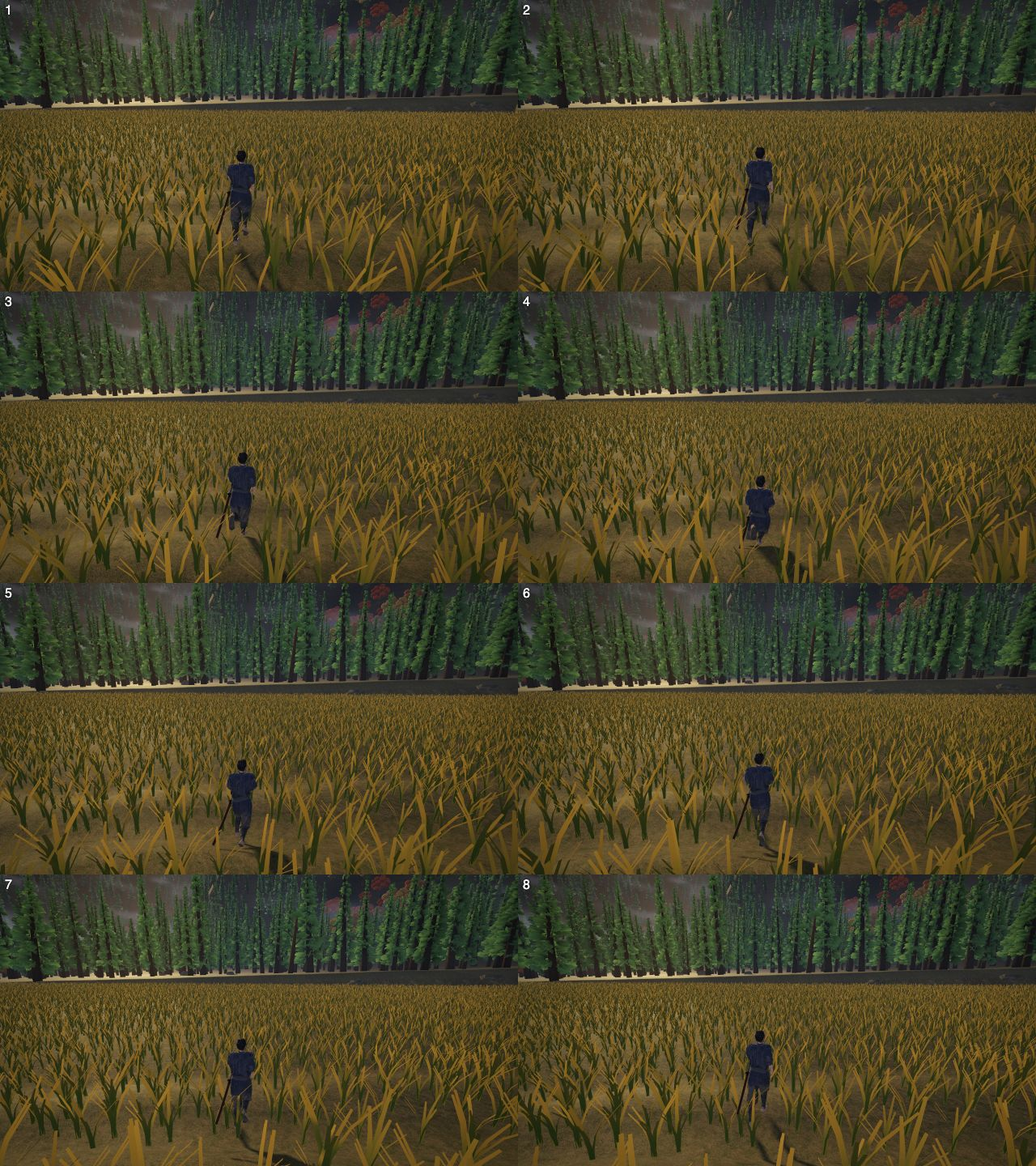
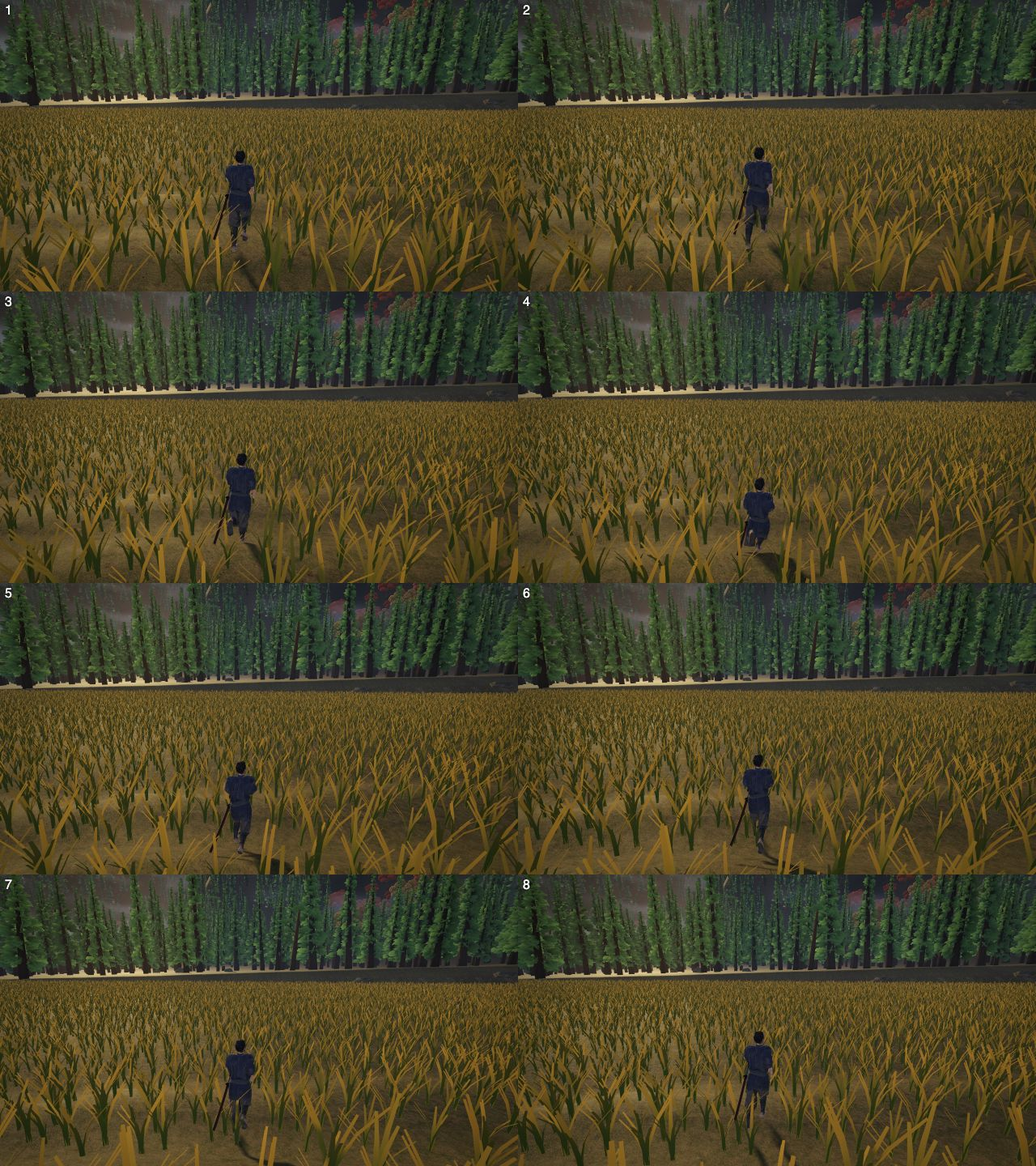
Record the final M4 results: forest check, blind scoring, opt-in FOV
The design doc, the M4 task entry, the polish3 task list and the QA readme now describe what
shipped: the speed-linked FOV is off by default (?fov=on), the pull-in floor is held, and the
camera regression has a forest route. m4.md has the final numbers (journey, routes, 32 forest
runs, lock-on, blind scoring of 27 items, mutation checks, performance with a control run).
The after-* images are re-captured from the default build; after-fov-run_stop.jpg shows ?fov=on.

diff --git a/reports/polish3/locomotion-smooth/m4.md b/reports/polish3/locomotion-smooth/m4.md
@@ -1,46 +1,66 @@
 # 走り・歩きの滑らかさ M4：追従カメラ（2026-11-04）
 
-前＝この枝の `?smooth=camera`（M3 のカメラ。762コマの記録の指紋 07ae29a12b76ffb9 が M3 の main と一致）。後＝この枝の既定（指紋 d286bd4881ba619c）。
+前＝この枝の `?smooth=camera`（M3 のカメラ。762コマの記録の指紋 07ae29a12b76ffb9 が M3 の main と一致）。後＝既定（指紋 313e89c1ce303f11）。
 入れたのは見た目のカメラだけ（`dist/valley/camera-follow.js`・`camera-rig.js` の `updateSmooth`）。設計と捨てた案は `design-locomotion-camera.md`。
 
 ## 結論
-- **一番ぎこちなかった壁際の瞬間の寄せ（1コマで1.2m）が無くなった**。0.4秒先の線で当たりを見て、0.3秒ほどかけて寄せる。壁の中は映さない（今のコマの当たりは常に守る）。
-- 棚田の段・土手の斜面で、カメラの上下の揺れ（加速度）が半分以下。代わりに主人公が画面の上下に流れる量が1〜2割増えた。
-- 平地の台本は、もともと滑らか。止まりの加加速度の山が約14%下がった程度で、連続写真ではほぼ見分けられない。
-- 走りで画角が最大+3度広がる（「画面の揺れ・衝撃」0・「動きを減らす」では広げない）。
-- 論理（位置・向き・速さ・歩容・接地）は762コマすべて M3 と同じ（生の記録を項目ごとに比較）。戦闘の論理は main と一致（斥候320・侍大将520コマ）。
+- 効いたのは壁際・木の間・段差。家の角を走り抜けるときの瞬間の寄せ（1コマで1.18m）が無くなった。木が密な所では、1コマに1m以上寄せる跳びが、32通り中17通りから2通りへ減った。棚田・土手のカメラの上下の揺れ（加速度）は半分以下になった。
+- 平地は元から滑らか。台本の加加速度 p99 は 209.5→185.8（−11%）。これは旋回の尾を外した物差しで、旧い定義では −3.6%（239.8→231.1）。止まりの山の最大は −14%。写真ではほぼ見分けられない。
+- 盲検（画面全体の連続写真・Opus 3人×9場面）：27件中、同点24・新の勝ち3（家の角）・旧の勝ち0。画角を広げた版で採点した（下の「画角」）。
+- 走りで画角を最大+3度広げる機能は、既定オフ（`?fov=on` で入る）にした。盲検で良し悪しが付かず、広げた分だけ描画が重い。画角なしの既定は main と同じ重さ。
+- 論理（位置・向き・速さ・歩容・接地）は762コマすべて main と同じ。関節も完全一致。戦闘の論理も main と一致（斥候320・侍大将520コマ）。
+- 親の確認で、寄せの下限（主人公から1.35m）を木の間で最大25%割る不具合を見つけて直した（`holdAbove`）。門番に木の間の場面を足した。
 
 ## 台本（smooth-journey・60コマ/秒）
 | 指標 | 前（M3） | 後（M4） |
 |---|---:|---:|
-| カメラ位置の加加速度 p99（視点を回した窓を外す・m/秒³） | 209.5 | 185.8（−11%） |
+| カメラ位置の加加速度 p99（視点を回した窓に触れる差を外す・m/秒³） | 209.5 | 185.8（−11%） |
+| 同・旧い定義（区間名だけで外す。旋回の尾を含む） | 239.8 | 231.1（−3.6%） |
 | 同・止まりの山の最大 | 287 | 248（−14%） |
-| 同・旧い定義（区間名だけで外す。旋回の尾を含む） | 239.8 | 231.1 |
 | 回転の角加速度 p99（窓を外す） | 0 | 0 |
-| 主人公の画面上の流れ（上下の範囲の区間最大） | 0.110 | 0.104 |
-| 画角（走り） | 58 | 60.97 |
+| 主人公の画面上の流れ（上下の範囲の区間最大） | 0.110 | 0.112 |
+- 区間別の p99：歩き出し 149→125、走り出し 102→86、反転 170→151、止まり 287→246、屈み歩き 69→61。定速（走り・小走り）は6〜13で変わらない。
 
 ## 場面（同じページで前後を切り替え。regress-locomotion-camera）
 | 場面 | 上下の加速度 m/秒² | 加加速度の最大 | 1コマの動きの超過 m | 画面の流れ |
 |---|---|---|---|---|
-| 棚田を走って下る | 31.3→14.7 | 645→252 | 0.044→0.048 | 0.18→0.21 |
-| 棚田を走って登る | 31.2→14.6 | 637→251 | 0.044→0.048 | 0.28→0.30 |
-| 土手の斜面 | 81.3→13.6 | 5566→401 | 0.027→0.028 | 0.67→0.77 |
-| 壁から走り去る | 12.0→7.4 | 2921→251 | 0.044→0.048 | 0.60→0.61 |
-| 家の角を走り抜ける | 1110→22.4 | 510269→4074 | **1.18→0.10** | 0.22→0.23 |
-- 遮られ方（注視点→カメラの線）と地面からの高さは、どの場面も前と同じか高い。
-- 30・60・144コマ/秒：止まる瞬間の画角 60.94・60.94・60.94、主人公との距離 4.00・4.04・4.07m（M3 も 4.04・4.04・4.10。目標をコマの頭で止めて解く分）。
+| 棚田を走って下る | 31.3→14.7 | 645→251 | 0.044→0.048 | 0.18→0.22 |
+| 棚田を走って登る | 31.2→14.6 | 637→250 | 0.044→0.048 | 0.28→0.31 |
+| 土手の斜面 | 81.3→13.7 | 5566→400 | 0.027→0.028 | 0.67→0.77 |
+| 壁から走り去る | 12.0→7.4 | 2920→250 | 0.044→0.048 | 0.60→0.60 |
+| 家の角を走り抜ける | 1110→22.4 | 510268→4074 | **1.18→0.10** | 0.22→0.26 |
+- 遮られ方（注視点→カメラの線）と地面からの高さは、どの場面も前と同じか高い。段差・斜面で主人公が画面の上下に流れる量は1〜2割増える（揺れの加速度を半分にした代わり）。
+
+## 木の間（親の確認・木が密な空き地8か所×4方向＝32通り・Shift+W で4.5秒）
+| | 前（M3） | 後（M4） |
+|---|---:|---:|
+| 1コマの寄せが主人公の動きより1m以上多かった通り | 17 | 2 |
+| 同・平均の最大 m | 1.24 | 0.36 |
+| 寄せている時間の割合（平均） | 0.19 | 0.28 |
+| 寄せの往復（脈打ち・振幅0.05超） | 0 | 0 |
+| 寄せの下限（主人公から1.35m）を割った通り | 0 | 0（初版は6） |
+- 前は、木が間に入るたびに1コマで下限まで約2.3m寄せていた。後は先読みで早めに寄せ始めるので跳びが小さい。代わりに、寄せている時間が長い。木にかすめて走ると、1コマで下限まで寄る跳びが残る（2通り）。
+
+## 狙い固定（親の確認・敵を固定して横歩き・走り寄る・後ろへ下がる各2秒）
+- 論理は前後で同じ。主人公と敵は、3通りとも画面に100%収まる。横歩きの加加速度 p99 は 189→169。画角は広がらない（狙い固定では広げない）。
+
+## 画角（`?fov=on` のときだけ）
+- ならした速さ 3.2→5.0m/秒で 0→+3度。上げ ω4・戻し ω3。「画面の揺れ・衝撃」の倍率を掛け、0 と「動きを減らす」では広げない。
+- 既定オフの理由：盲検で良し悪しが付かない（構図 5.96 対 5.96）。描画が重い（画角あり：移動の p95 +0.3ms・平均 +0.24ms で約2%、木の間のCPU +0.19ms/コマ。画角なしは差なし）。好みが分かれる。
+- 盲検は画角ありの版で採点した。既定（画角なし）は、前との画素差が平地で3〜5%（画角ありは約19%）に縮み、壁際・棚田・旋回の動きの違いは同じ。既定そのものは盲検にかけていない。
+
+## 盲検（画像だけ・版の名前を隠す・場面ごとに A/B の順はでたらめ）
+- Opus 3人×9場面（走り出し・定速・停止・歩き→止まり・走り→歩き・棚田・旋回・壁から・家の角）。overall の平均は 後 6.30・前 6.07（差 +0.22）。項目別の差：急な動き +0.30・見やすさ +0.19・追従 +0.07・構図 0.00。
+- 差が出たのは家の角だけ（3人とも後が6点・前が4点）。前は「コマ6→7で壁が急に大きくなり、主人公が画面下へガクッと移る」。
+- 前後に共通の弱点（M4 以前から）：止まったあとカメラが少し前へ流れて主人公が画面の下へ下がる、棚田の段で主人公が一段沈む、壁際から走り出す最初の2コマで主人公が近すぎて足が切れる。
 
 ## 門番の確かめ（不具合を戻すと失敗する）
-`KZ_MUTATE=predict`（先回りを切る）→ 家の角で1.18m の跳びで失敗。`vertical`（上下を1段に）→ 棚田の上下の加速度31で失敗。`fov`（画角が揺れの倍率を読まない）→ 揺れ0で60.98度になり失敗。
+`KZ_MUTATE=predict`（先回りを切る）→ 家の角で1.18m の跳びで失敗。`vertical`（上下を1段に）→ 棚田の上下の加速度31で失敗。`hold`（寄せの下限を外す）→ 木の間で0.094（約0.35m）割って失敗。`fov`（画角が揺れの倍率を読まない）→ 揺れ0で60.98度になり失敗。追従を弱めて滑らかに見せる逃げ（ω4・先読みなし）→ 主人公の画面上の流れ 0.87（前は0.11）で失敗。
 
-## 性能（標準品質・main と交互）
-| | main | M4 |
-|---|---|---|
-| 移動 p95 ms（5回） | 15.4・15.7・15.7・15.6・15.7（平均15.62） | 15.8・15.9・16.1・15.7・15.9（平均15.88） |
-| 戦い p95 ms（3回） | 14.4・14.4・14.3 | 14.4・14.7・14.5 |
-| 描画呼出・三角形の最大（移動） | 475・4,177,563 | 476・4,190,811 |
-- 移動で p95 が平均約0.26ms（1.7%）上がる。先回りの線は1本0.10ms。画角を広げた分、映る物が0.3%増える。先回りだけ・画角だけを切った版はどちらも15.8（2回）で、どちらか一方が主因ではない。予算20msの内だが、「悪化させない」を厳密に読むなら判断が要る。
+## 性能（標準品質・main と交互・3回ずつ）
+- 画角なしの既定：移動の p95 は main 26.1・M4 26.0ms、平均 19.93・19.79ms（旧カメラに戻した対照 19.54）。戦闘の p95 は 24.4・24.4ms。描画呼出は同じ、三角形は +0.04%。この回は機械が遅い状態で、絶対値は最初の測定（13ms台）より重い。差だけ読む。
+- 画角あり（最初の測定・機械が速い状態）：移動の p95 15.7→16.0ms、平均 13.46→13.74ms（約2%）、戦闘は同じ。三角形 +0.3%。
+- `guide-hitch`（道外れの助けで1コマが詰まらない試験）は、p99 が 33.4ms の境目にあり、機械の状態で main でも 26〜36ms の間を揺れた（main は交互の4回中3回が33.4ms超）。最終版も同じ揺れ方で、差は平均 +0.3ms。最初の1回は M4（画角あり）でも 25.7ms で合格した。
 
 ## 画像（m4/）
-画面全体のコマ割り（640×360×8・番号のみ）。`before-`＝M3、`after-`＝M4。家の角（wall_pass）は前が6→7枚目で急に寄り、後は3〜6枚目でなだらかに寄る。棚田・止まりは画素では違う（平均差14〜19）が、写真での差は小さい。
+画面全体のコマ割り（640×360×8・番号のみ）。`before-`＝M3、`after-`＝既定（画角なし）、`after-fov-`＝`?fov=on`。家の角（wall_pass）は前が6→7枚目で急に寄り、後は3〜6枚目でなだらかに寄る。回帰の記録は `regress-camera.json`。

diff --git a/tools/README-valley-qa.md b/tools/README-valley-qa.md
@@ -66,8 +66,8 @@ b0 庭へ降りる（`temple_yard` に入る）→ b1 穂太の話 → b2 林道
 - `tools/scenarios/regress-locomotion-upper.mjs`：走りの形（M3・`dist/valley/upper-body.js`・`upper-rig.js`、物差し `tools/lib/upper-metrics.mjs`）。台本1本の腕振りの幅・平均・手の行き来・反対側の太ももとの同期、骨盤と胸の逆回転、頭の揺れ、骨盤の上下、前傾、曲がりの傾きの目標と、足の物差し（regress-locomotion-ik と同じ）。同じページで `?smooth=arms`（M2b）と定速の走り3秒を比べ、30・60・144Hz、「動きを減らす」、補正を戻した骨＝mixer の直後の姿勢（差1e-9以下）、技で効きが戻ることを確かめる。どの通りも1回空で流してから測る（台本の直後の1回目は前の状態を引きずった）。手の最高の高さ（首との差）・前への出の安全装置を台本の全区間で確かめ、同じ台本を `?smooth=arms` でも流して屈み歩きの腕が層あり・なしで同じことを確かめる（手の上限が層の効きに連動しないと、屈み歩きに入る間に左腕が40度ずれる）。
 - `tools/scenarios/capture-ledge.mjs`：棚田の段（0.55m）を下る・登る場面を、段差を越える瞬間を中心に8コマのコマ割りにする（`--tag`・`--query`・`KZ_ONLY`）。平地は IK の有無で画素がほぼ変わらず、効き目は坂と段差に出る。
 - `tools/scenarios/capture-smooth.mjs`：同じ台本の走り出し・定速・停止・旋回を、固定の横カメラと追従カメラで8コマのコマ割り（幅1280のJPG）にする（`--tag` で出力名を替え、新旧を同じ条件で撮る。盲検採点用）。場面の前に主人公を瞬間移動させるので、`KZ_PRE`（既定150コマ）だけ立って足を待ちの姿へ戻してから撮る（短いと、脚のIKの足が前の姿のまま写る）。`KZ_EVERY`（コマの間隔・既定4）・`KZ_ONLY`（場面をカンマ区切りで絞る）。
-- `tools/scenarios/regress-locomotion-camera.mjs`：追従カメラ（M4・`dist/valley/camera-follow.js`・`camera-rig.js` の `updateSmooth`、物差し `tools/lib/smooth-metrics.mjs` の `cameraView`・`posJerkP99Clean`）。同じページの `?smooth=camera`（M3 のカメラ）と比べ、台本でカメラ位置の加加速度p99（視点を回した窓に触れる差を外す）が10%以上小さい・主人公の画面上の流れが増えない（遅れを増やして滑らかに見せる逃げを止める）・走りの画角が+3度（「画面の揺れ・衝撃」0と「動きを減らす」で広げない）、場面（棚田の下り・登り、土手、壁から離れる、壁の角を走り抜ける）で1コマの動きが主人公より15cm以上多くない・棚田の上下の加速度が6割以下・遮られず地面に潜らない、30・60・144Hzで止まる瞬間の画角と距離が揃うことを確かめる。木が密な空き地を走る場面では、寄せの下限（主人公から1.35m）を割らず、1コマの寄せが旧版より大きくないことを見る。門番の確かめは `KZ_MUTATE=predict|vertical|hold|fov`（不具合を戻すと失敗する）。
-- `tools/scenarios/capture-camera.mjs`：画面全体（追従カメラ・普段の向き）を、640×360の8コマ（2列×4段・幅1280）のコマ割りにする。場面は走り出し・定速・停止・旋回・歩き→止まり・走り→歩き・棚田の下り・壁の角を走り抜ける・壁から走り去る。`--tag`・`--query "smooth=camera"`（前の版）・`KZ_ONLY`・`KZ_PRE`（既定150コマの立ち時間）。コマごとの主人公の画面位置・画角・カメラの高さ・主人公との距離を JSON に添える。カメラの盲検採点用（capture-smooth は主人公を切り抜くので、カメラの動きが消える）。
+- `tools/scenarios/regress-locomotion-camera.mjs`：追従カメラ（M4・`dist/valley/camera-follow.js`・`camera-rig.js` の `updateSmooth`、物差し `tools/lib/smooth-metrics.mjs` の `cameraView`・`posJerkP99Clean`）。同じページの `?smooth=camera`（M3 のカメラ）と比べ、台本でカメラ位置の加加速度p99（視点を回した窓に触れる差を外す）が10%以上小さい・主人公の画面上の流れが増えない（遅れを増やして滑らかに見せる逃げを止める）・画角は既定で広げない（`?fov=on` でだけ走りで+3度。「画面の揺れ・衝撃」0と「動きを減らす」で広げない）、場面（棚田の下り・登り、土手、壁から離れる、壁の角を走り抜ける）で1コマの動きが主人公より15cm以上多くない・棚田の上下の加速度が6割以下・遮られず地面に潜らない、30・60・144Hzで止まる瞬間の画角と距離が揃うことを確かめる。木が密な空き地を走る場面では、寄せの下限（主人公から1.35m）を割らず、1コマの寄せが旧版より大きくないことを見る。門番の確かめは `KZ_MUTATE=predict|vertical|hold|fov`（不具合を戻すと失敗する）。
+- `tools/scenarios/capture-camera.mjs`：画面全体（追従カメラ・普段の向き）を、640×360の8コマ（2列×4段・幅1280）のコマ割りにする。場面は走り出し・定速・停止・旋回・歩き→止まり・走り→歩き・棚田の下り・壁の角を走り抜ける・壁から走り去る。`--tag`・`--query "smooth=camera"`（前の版）・`--query "fov=on"`（画角を広げた版）・`KZ_ONLY`・`KZ_PRE`（既定150コマの立ち時間）。コマごとの主人公の画面位置・画角・カメラの高さ・主人公との距離を JSON に添える。カメラの盲検採点用（capture-smooth は主人公を切り抜くので、カメラの動きが消える）。
 - `node tools/gait-sample.mjs`：周期の移動動作を7体ぶん Node だけで標本化し、`dist/valley/gait-table.js`（生成物）を作り直す（`--check` で一致の確認、`--print` で STANCE_SPEED との照合）。
 - `tools/scenarios/regress-hand-grip.mjs`：刀を握る手（8.6a）を毎コマ測る（指・親指の皮と柄・鞘のすき間とめり込み、手首と指の跳び、腕の写しの長さ、動作の骨と切先が層を切った人物と一致）。31場面。`KZ_OUT=…` でJSONを残す。
 - `tools/scenarios/regress-hand-grip-game.mjs`：実ゲームの主人公で、敵が気づいて抜く・納刀のまま攻撃・戦闘後の自動の納刀・抜く途中に倒れる、の4場面を通し、見える手を毎コマ測る。

diff --git a/.kiro/specs/hidden-valley-slice/design-locomotion-camera.md b/.kiro/specs/hidden-valley-slice/design-locomotion-camera.md
@@ -16,14 +16,16 @@
 - ① 注視点の水平：ω15 のばね＋ならした速さ（ω8）×0.03秒の先回り。走り5m/秒の遅れは M3 と同じ約0.52m で、止まりの加加速度の山が287→248。
 - ② 注視点の上下：ω20 で一度ならしてから ω12。棚田の上下の加速度 31→15m/秒²。
 - ③ 遮蔽：今のコマの線に加え、0.4秒先（ならした速さでずらした注視点とカメラ）の線でも当たりを見る。目標を ω30 でならし、寄せは ω20・戻しは ω7 のばね。**今のコマの当たりより外へは出さない**（壁の中は映さない。先回りが外れたときだけ残りを即座に寄せる）。止まっている間は先回りの線を引かない。
+  **寄せの下限（主人公から1.35m）はばねの状態でも守る**（`holdAbove`）。初版は、今のコマの当たりへ1コマで寄せたあとに下向きの速さが残り、木の間を走る32通りのうち6通りで下限を最大25%割った（親の確認で発見）。
 - ④ 持ち上げ（壁際で上へ逃げる）も速さの続くばね（上げ ω28・下げ ω6.3）。地面からの下限0.55m は折れ目のない最大（log-sum-exp・幅0.12m）。下限は常に守る。
-- ⑤ 画角：ならした速さ 3.2→5.0m/秒で 0→+3度（smoothstep）。上げ ω4・戻し ω3。「画面の揺れ・衝撃」の倍率を掛ける（0なら広げない）。「動きを減らす」・狙い固定では広げない。
-- 切替 `?smooth=camera`（`?smooth=off`・`?loco=old` も）で M3 のカメラ（`updateLegacy`。書き換えていない）。記録の指紋 07ae29a12b76ffb9 が main と一致。
+- ⑤ 画角（**`?fov=on` のときだけ・既定オフ**）：ならした速さ 3.2→5.0m/秒で 0→+3度（smoothstep）。上げ ω4・戻し ω3。「画面の揺れ・衝撃」の倍率を掛ける（0なら広げない）。「動きを減らす」・狙い固定では広げない。
+  既定オフの理由：盲検で良し悪しが付かず（構図 5.96 対 5.96）、広げた分だけ描画が重い（木の間で+0.19ms/コマ。画角なしの版は旧と同等）。好みが分かれるので、`?stride=on` などと同じく、本人の試遊で決める。
+- 切替 `?smooth=camera`（`?smooth=off`・`?loco=old` も）で M3 のカメラ（`updateLegacy`。書き換えていない）。記録の指紋 07ae29a12b76ffb9 が main と一致。`?fov=on` は `?smooth=camera` が優先。
 - ばねはすべて厳密解・毎コマの新規確保なし（先回りの線の端点は使い回す）。先回りの線は動いている間だけ1本足す（rayClip 1回）。
 
 ## 3. 物差し（悪く見える現象そのもの）
 - `cameraView`：主人公（論理の位置の1m上）をそのコマのカメラで画面へ写した点の、区間ごとの範囲（流れ）・1コマの最大の動き、カメラの高さの加速度、画角の変化の速さ。**「遅れを増やして滑らかに見せる」逃げ**を、画面の流れが増えないことで止める（M3 の轍：実装の値を測るだけの物差しにしない）。
-- 回帰の門番は、実際の手順で不具合を再現してから、わざと戻して失敗することを確かめた：先回りを切る→壁の角で1.18m の跳び、上下を1段に戻す→棚田で上下の加速度31、画角が揺れの設定を読まない→揺れ0で+3度。
+- 回帰の門番は、実際の手順で不具合を再現してから、わざと戻して失敗することを確かめた：先回りを切る→壁の角で1.18m の跳び、上下を1段に戻す→棚田で上下の加速度31、寄せの下限を外す→木の間で0.094（約0.35m）割る、画角が揺れの設定を読まない→揺れ0で+3度（`?fov=on` の版）、追従を弱めて滑らかに見せる逃げ（ω4・先読みなし）→主人公の画面上の流れ0.87で失敗。
 
 ## 4. 捨てた案
 - 注視点を ω15 だけ（先回りなし）：加加速度は下がるが遅れ0.63m（主人公が画面の奥へ流れる）。ω14＋先回り0.05：差が小さく、先回りが大きいほど止まりで行き過ぎに近づく。
@@ -38,3 +40,6 @@
 - 土手の斜面の始まりは、M3 から主人公の腰が画面の下端近く（壁際で上へ逃げて頭を見る構図）。今回は滑らかさだけを変え、構図は変えていない。
 - 同じページで `?smooth=camera` と切り替えると、画角が0.01度以内の差では投影を更新しないので、前の版の画角が最大0.01度残る（回帰の許容0.02度）。
 - 台本の p99 は止まりの山の縁にある（上位8コマ目）。印が1コマずれると値が数十変わるので、山の最大と並べて読む。
+- 10%の基準は、旋回の尾を外した物差しで−11%（209.5→185.8）。旧い定義では−3.6%（239.8→231.1）。平地は元から滑らかで、効くのは壁際・木の間・段差。
+- 木にかすめて走ると、今のコマの当たりへ1コマで下限まで寄る跳びが残る（木が密な所32通りのうち2通りで1m超。旧は17通り）。寄せている時間の割合は旧より長い（先読みで早く寄せ始めるため。平均0.19→0.28）。
+- 狙い固定は旧と同等（論理は同じ・主人公と敵は画面に収まる）。敵の真上を通ると狙いの向きが反転して急に回るのは旧からの動きで、今回は触らない。

diff --git a/.kiro/specs/hidden-valley-slice/tasks-locomotion.md b/.kiro/specs/hidden-valley-slice/tasks-locomotion.md
@@ -56,7 +56,7 @@
 - 範囲：設計7。画角の速さ連動、注視と向きのばね、段差・坂の平滑。主な要件：R37。
 - 依存：M2a（M3と並行可）。完了の条件（証拠）：カメラ位置の加加速度と回転の角加速度のp99が基準から10%以上下がる。「画面の揺れ・衝撃」0で画角が変わらない。盲検（カメラ）。
 - 本人の確認の関門：追い方のぎこちなさが取れたかを確認する。
-- 🟡 2026-11-04（枝 `feat/smooth-m4-camera`）：見た目のカメラだけを `camera-follow.js`（式・純粋・単体試験つき）と `camera-rig.js` の `updateSmooth` に（設計 `design-locomotion-camera.md`）。向きは操作のまま・論理は762コマすべて M3 と同じ。`?smooth=camera` で M3（指紋 07ae29a12b76ffb9 が main と一致）。変える前に測ると、最もぎこちないのは壁際の瞬間の寄せ（家の角で1コマ1.18m）と段差の上下の揺れ（棚田31m/秒²）で、平地は既に滑らか。入れたもの：注視点 ω15＋速さの先回り0.03秒、上下は2段のばね、遮蔽は0.4秒先の線で先に寄せる（今のコマの当たりは守る）、寄せの戻り・持ち上げをばね、地面の下限を折れ目のない最大、走りで画角+3度（揺れ0・動きを減らすで0）。物差し `cameraView`（主人公の画面の流れ・カメラの高さの加速度・画角の速さ）と、旋回の窓を外す `posJerkP99Clean` を足した。台本：加加速度p99 209.5→185.8（−11%）・止まりの山287→248・画面の流れ0.110→0.104・角加速度0→0。場面：家の角の1コマの超過1.18→0.10m、棚田の上下の加速度31→15、土手81→14。回帰 `regress-locomotion-camera`（不具合を戻すと失敗することを3通りで確認）を足して35本合格、戦闘の論理一致（斥候320・侍大将520）。性能は移動のp95が平均+0.26ms（15.62→15.88、5回交互）で判断待ち（`reports/polish3/locomotion-smooth/m4.md`）。残：盲検（画面全体のコマ割り）、本人の試遊（追い方・画角・段差で主人公が画面の上下に流れる量）。
+- ✅ 2026-11-04（枝 `feat/smooth-m4-camera`）：見た目のカメラだけを `camera-follow.js`（式・純粋・単体試験つき）と `camera-rig.js` の `updateSmooth` に（設計 `design-locomotion-camera.md`）。向きは操作のまま・論理は762コマすべて M3 と同じ。`?smooth=camera` で M3（指紋 07ae29a12b76ffb9 が main と一致）。入れたもの：注視点 ω15＋速さの先回り0.03秒、上下は2段のばね、遮蔽は0.4秒先の線で先に寄せる（今のコマの当たりと寄せの下限は守る）、寄せの戻り・持ち上げをばね、地面の下限を折れ目のない最大。走りの画角+3度は既定オフ（`?fov=on`。盲検で良し悪しが付かず、描画が約2%重いため）。変える前に測ると、最もぎこちないのは壁際の瞬間の寄せ（家の角で1コマ1.18m）と段差の上下の揺れ（棚田31m/秒²）で、平地は既に滑らか。結果：家の角の1コマの超過1.18→0.10m、木の間（32通り）で1m超の跳び17→2通り、棚田の上下の加速度31→15、土手81→14、台本の加加速度p99 209.5→185.8（旋回の窓を外す・旧い定義では−3.6%）。盲検（画面全体・Opus3人×9場面）は24件同点・3件新（家の角）・旧0件（画角ありの版で採点）。回帰35本（`regress-locomotion-camera` 追加・不具合を戻すと失敗することを5通りで確認）、戦闘の論理一致（斥候320・侍大将520）。性能は画角なしの既定で main と同じ。親の確認で、寄せの下限を木の間で最大25%割る不具合を直した。残：本人の試遊（家の角・木の間・段差で主人公が画面の下へ流れる量、`?fov=on`）。結果の詳細は `reports/polish3/locomotion-smooth/m4.md`。
 
 ## M5 総合評価と引き渡し
 

diff --git a/.kiro/specs/hidden-valley-slice/tasks-polish3.md b/.kiro/specs/hidden-valley-slice/tasks-polish3.md
@@ -18,6 +18,7 @@
   - 2026-11-04（滑らかさ M2a・枝 `feat/smooth-m2a-phase`）：足の位相と歩調（`gait-phase.js`）。歩き出しはすれ違いの位相から、歩容を替える混ぜ・止まりの混ぜの間も出ていく動作を実際の速さで回す。掃引の窓の接地のずれ 歩き出し15→6cm・止まり（走り）22→18cm（最大31→22cm）。`?smooth=phase` で M1 と記録の指紋が一致。詳細は tasks-locomotion.md の M2a。
   - 2026-11-04（滑らかさ M2b・枝 `feat/smooth-m2b-ik`）：脚のIKと接地（`leg-plant.js`・`leg-ik.js`）。着いた足を世界へ留め、骨盤を下げて低い足に届かせ、坂・段で足を地面へ合わせる。台本の窓（歩き出し・反転・旋回）0cm・定速の滑り0・坂と段の浮き沈み3cm以内。止まりは M2a と同じ見た目（盲検で、足を留める版は負けた）。歩幅の伸縮は既定オフ。平地の見た目は M2a とほぼ同じ。詳細は tasks-locomotion.md の M2b。
   - 2026-11-04（滑らかさ M3・枝 `feat/smooth-m3-upper`）：走りの形（`upper-body.js`・`upper-rig.js`）。体幹の逆回転・頭の安定・前傾・曲がりの傾き・骨盤の上下の縮め・後ろへ引く腕（前へ出る腕は M2b のまま）。盲検で、腕を前へも振る初版は旧に負け（54件中 新3・旧19）、作り直した版は旧と同等（3版27件すべて同点）。台本の走りで頭の左右の揺れ7.6→1.1度・骨盤と胸の相関+0.57→−0.93・骨盤の上下8.3→5.9cm。`?smooth=arms` で M2b。詳細は tasks-locomotion.md の M3。
+  - 2026-11-04（滑らかさ M4・枝 `feat/smooth-m4-camera`）：追従カメラ（`camera-follow.js`・`camera-rig.js`）。注視点のばね・上下2段・0.4秒先の線で先に寄せる遮蔽・寄せの下限をばねでも守る。効いたのは壁際・木の間・段差（家の角の1コマの寄せ1.18→0.10m・木の間で1m超の跳び17→2通り・棚田の上下の揺れ31→15）。平地は元から滑らか（加加速度p99 −11%）。盲検は27件中 同点24・新3・旧0。走りの画角+3度は既定オフ（`?fov=on`）。`?smooth=camera` で M3。詳細は tasks-locomotion.md の M4。
 - [ ] 8.1 画づくりの垂直スライス：見晴らし岩と里の入口を例に、色・形・光・絵肌・人物を一場面で比較し、全体へ広げる方向を設計する。 _(R17.1〜17.9)_
   - 担当：設計・実装・評価。依存：8.0。本人の確認の関門：方向と後処理の意図を画面で確認する。確認前の全体展開は保留する。
   - 2026-10-30：方向は本人が選んだ＝商業大作寄り（R17.11）。絵本寄りとの比較版は作らない。垂直スライスは、見晴らし岩と里の入口を、この方向で作り込む。最初の対象は木（8.1a。杉の段・葉カード・樹皮・近景の枝。research-polish3-audit-1030.md）。出来上がりは、本人が画面で確認する。
